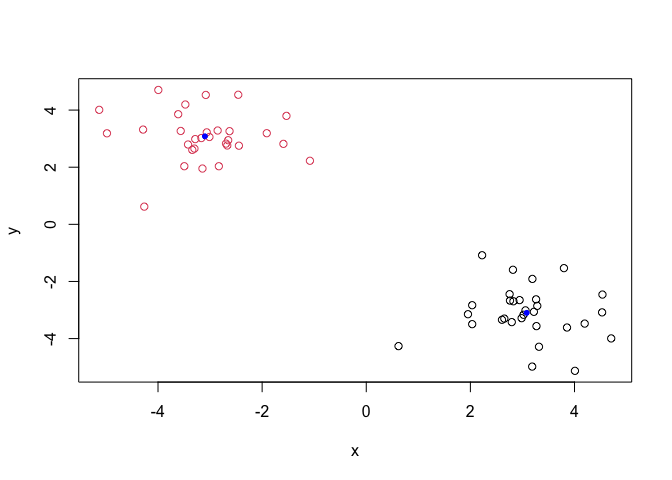
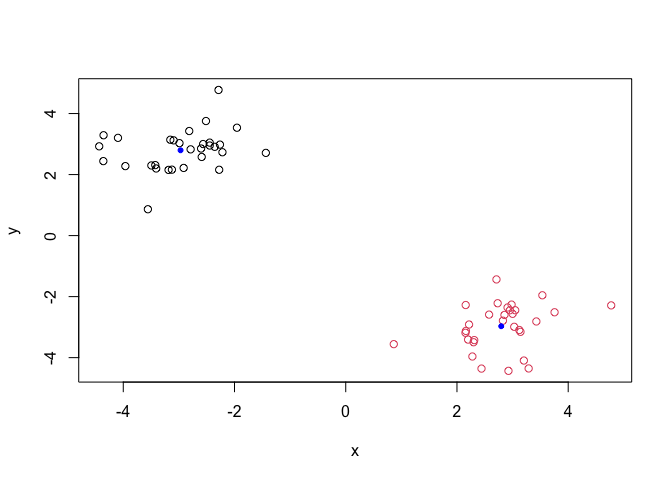
edits to readme

diff --git a/class06/class06.md b/class06/class06.md
@@ -96,7 +96,7 @@ The `sample()` function in R randomly selects items from a vector
 sample(1:10, size=4)
 ```
 
-    [1] 6 7 5 8
+    [1] 6 2 9 7
 
 > Q. Return 12 numbers picked randomly from the input 1:10
 
@@ -104,7 +104,7 @@ sample(1:10, size=4)
 sample(1:10, size=12, replace=TRUE)
 ```
 
-     [1] 6 2 9 5 1 4 6 7 1 6 9 3
+     [1] 10  4  9  7  4  5  6  2  4 10  3  3
 
 > Q: Write the code to generate a random 12 nucleotide long DNA
 > sequence?
@@ -114,7 +114,7 @@ bases <- c('A','C','G','T')
 sample(bases, size=12, replace=TRUE)
 ```
 
-     [1] "T" "T" "T" "T" "C" "A" "T" "C" "A" "A" "G" "C"
+     [1] "C" "C" "T" "T" "T" "C" "T" "T" "C" "T" "A" "G"
 
 > Q. Write a first version function called `generate_dna()` that
 > generates a user specified length `n` random DNA sequence?
@@ -130,7 +130,7 @@ generate_dna <- function(n=4){
 generate_dna(10)
 ```
 
-     [1] "G" "T" "A" "A" "C" "T" "T" "T" "C" "G"
+     [1] "G" "G" "A" "A" "T" "T" "T" "A" "G" "G"
 
 > Q. Modify your function to return a FASTA like sequence so rather than
 > \[1\] “G” “A” “T” “G” “C” “C” we want “GATGCC”
@@ -148,7 +148,7 @@ generate_dna <- function(n=4){
 generate_dna(7)
 ```
 
-    [1] "AACCGGG"
+    [1] "CCCTAAC"
 
 > Q. Give the user an option to return FASTA format ouput sequence or
 > standard multi-element vector format?
@@ -174,7 +174,7 @@ generate_dna(5)
 
     Hello...
 
-    [1] "CTGTT"
+    [1] "GAGTG"
 
 ``` r
 generate_dna(5, fasta = FALSE)
@@ -182,7 +182,7 @@ generate_dna(5, fasta = FALSE)
 
     ... is it me you are looking for...
 
-    [1] "A" "A" "A" "A" "A"
+    [1] "T" "G" "T" "A" "A"
 
 ## A new cool function
 
@@ -209,43 +209,43 @@ generate_protein <- function(n=4, fasta=TRUE){
 generate_protein(6)
 ```
 
-    [1] "DHDVTY"
+    [1] "GTRCDC"
 
 ``` r
 generate_protein(7)
 ```
 
-    [1] "GSFMQDQ"
+    [1] "KMCLIVY"
 
 ``` r
 generate_protein(8)
 ```
 
-    [1] "WLRVHRMK"
+    [1] "WRTNLWTK"
 
 ``` r
 generate_protein(9)
 ```
 
-    [1] "VGGIIMMYM"
+    [1] "MYEDIDDFV"
 
 ``` r
 generate_protein(10)
 ```
 
-    [1] "YGAWSFHCAA"
+    [1] "HRNMVAGHFA"
 
 ``` r
 generate_protein(11)
 ```
 
-    [1] "RDSAIGRQHKQ"
+    [1] "YAPTAMQMCFM"
 
 ``` r
 generate_protein(12)
 ```
 
-    [1] "KSHIQMIWTKNH"
+    [1] "DKHTRQQFVPDN"
 
 Or we could do a `for()` loop:
 
@@ -257,19 +257,19 @@ for(i in 6:12){
 ```
 
     >6
-    WDYKEE 
+    VKPSPT 
     >7
-    DAVQVWE 
+    VILPKME 
     >8
-    WVSKAIHK 
+    DSSQECPN 
     >9
-    YDNGTASPD 
+    RDYFGQLQW 
     >10
-    FGWYTEFICE 
+    VFAQWHWCVW 
     >11
-    VFHMFCPITQM 
+    WQWNGMVTFQD 
     >12
-    NLIHDVEDKDWI 
+    LPNPWERWCALC 
 
 The protein sequences of 8-12 are unique in nature as they do not appear
 in the NR database in NCBI.

diff --git a/class07/class07.md b/class07/class07.md
@@ -63,8 +63,8 @@ km$centers
 ```
 
               x         y
-    1  3.081599 -3.099125
-    2 -3.099125  3.081599
+    1 -2.970182  2.795663
+    2  2.795663 -2.970182
 
 > Q. What component of the results object details the cluster membership
 > vectors (i.e. our main result of which points lie in which cluster)?
@@ -73,8 +73,8 @@ km$centers
 km$cluster
 ```
 
-     [1] 1 1 1 1 1 1 1 1 1 1 1 1 1 1 1 1 1 1 1 1 1 1 1 1 1 1 1 1 1 1 2 2 2 2 2 2 2 2
-    [39] 2 2 2 2 2 2 2 2 2 2 2 2 2 2 2 2 2 2 2 2 2 2
+     [1] 2 2 2 2 2 2 2 2 2 2 2 2 2 2 2 2 2 2 2 2 2 2 2 2 2 2 2 2 2 2 1 1 1 1 1 1 1 1
+    [39] 1 1 1 1 1 1 1 1 1 1 1 1 1 1 1 1 1 1 1 1 1 1
 
 > Q. Plot our clustering results with points colored by cluster and also
 > add the cluster centers as new points colored in blue?
@@ -103,13 +103,13 @@ The metric
 km$tot.withinss
 ```
 
-    [1] 91.21532
+    [1] 59.31663
 
 ``` r
 k4$tot.withinss
 ```
 
-    [1] 65.97639
+    [1] 41.63422
 
 > Q. Let’s try different number of K (centers) from 1 to 30 and see what
 > the best result is?
@@ -122,11 +122,11 @@ for (i in 1:30) {
 ans
 ```
 
-     [1] 1237.255989   91.215320   78.412076   57.336075   60.241139   47.437895
-     [7]   41.308771   29.641360   23.755814   22.660912   20.545925   13.640732
-    [13]   13.796128   14.157857   11.219867   11.260693   10.547341    6.671396
-    [19]    8.134249    8.568029    5.382430    5.489515    5.420305    4.252824
-    [25]    4.094132    3.666907    4.287518    3.072633    3.202367    3.408667
+     [1] 1056.665975   59.316634   45.105590   40.636997   27.423179   23.070519
+     [7]   21.727451   20.618176   13.794709   12.794149   15.643411   11.027213
+    [13]    9.558296    6.745452    7.014067    6.512913    4.843303    5.459422
+    [19]    5.103613    4.500634    4.790362    4.176505    4.310289    2.228547
+    [25]    1.763766    1.603246    1.753980    1.905312    1.081309    1.262697
 
 ``` r
 plot(ans, typ="o")
@@ -184,8 +184,8 @@ table(groups, km$cluster)
 
           
     groups  1  2
-         1 30  0
-         2  0 30
+         1  0 30
+         2 30  0
 
 ## PCA of UK food data
 

diff --git a/README.md b/README.md
@@ -15,3 +15,22 @@ Class 06 [R Functions](class06/class06.md)
 Class 07 [Machine Learning](class07/class07.md)
 
 Class 08 [Breast Cancer Mini-Project](class08/class08.md)
+
+Class 09 [Breast Cancer Mini-Project](class09/class09.md)
+
+Class 10 [Breast Cancer Mini-Project](class10/class10.md)
+
+Class 11 [Breast Cancer Mini-Project](class11/class11.md)
+
+Class 12 [Breast Cancer Mini-Project](class12/class12.md)
+
+Class 13 [Breast Cancer Mini-Project](class13/class13.md)
+
+Class 14 [Breast Cancer Mini-Project](class14/class14.md)
+
+Class 18 [Breast Cancer Mini-Project](class18/class18.md)
+
+Class 19 [Breast Cancer Mini-Project](class19/class19.md)
+
+
+
